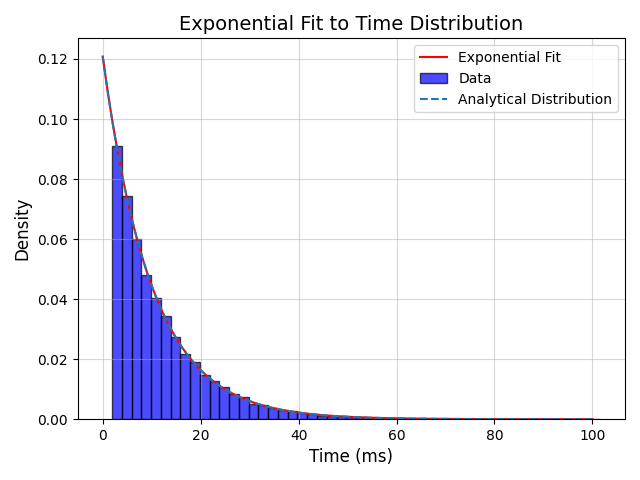
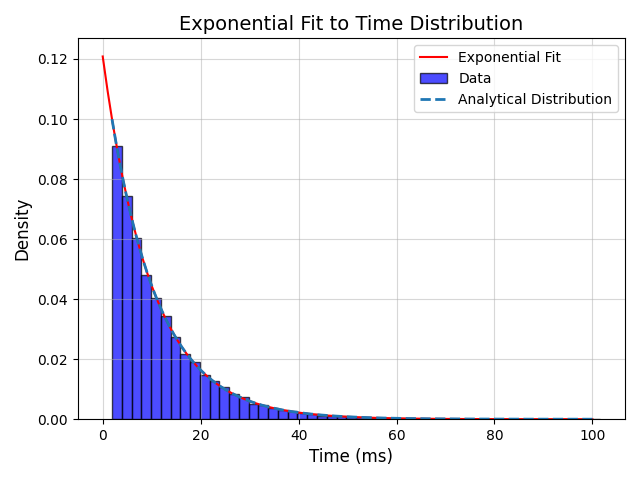
fix analytical solution neuron

diff --git a/src/tcs/neuron.py b/src/tcs/neuron.py
@@ -47,8 +47,6 @@ class Neuron:
         self.bin_centers = 0.5 * (self.bins[1:] + self.bins[:-1])
         self.exp_params, self.exp_cov = sp.optimize.curve_fit(exponential, self.bin_centers, self.hist)
         r_squared = 1 - (np.sum((self.hist - exponential(self.bin_centers, *self.exp_params))**2) / np.sum((self.hist - np.mean(self.hist))**2))
-        # epsilon = 1e-10  
-        # chi_squared = np.sum((self.hist - exponential(self.bin_centers, *self.exp_params))**2 / (self.hist + epsilon))
         x_axis = np.linspace(0, 100, 100)
         plt.figure()
         plt.plot(x_axis, exponential(x_axis, *self.exp_params), label='Exponential Fit', color='red', linewidth=1.5)
@@ -57,9 +55,9 @@ class Neuron:
         plt.xlabel("Time (ms)", fontsize=12)
         plt.ylabel("Density", fontsize=12)
 
-        t = np.linspace(0, 100, 100)
-        self.inter_spike_distribution = self.exp_params[1]*np.exp(-self.exp_params[1] * (t - self.refractory_period))
-        plt.plot(t, self.inter_spike_distribution, label='Analytical Distribution', linewidth=1.5, linestyle='--')
+        t = np.linspace(self.refractory_period, 100, 500)
+        self.inter_spike_distribution = self.exp_params[1] * np.exp(-self.exp_params[1] * (t - self.refractory_period))
+        plt.plot(t, self.inter_spike_distribution, label='Analytical Distribution', linewidth=2, linestyle='--')
         plt.legend()
         plt.grid(visible=True, alpha=0.5)
         plt.tight_layout()
